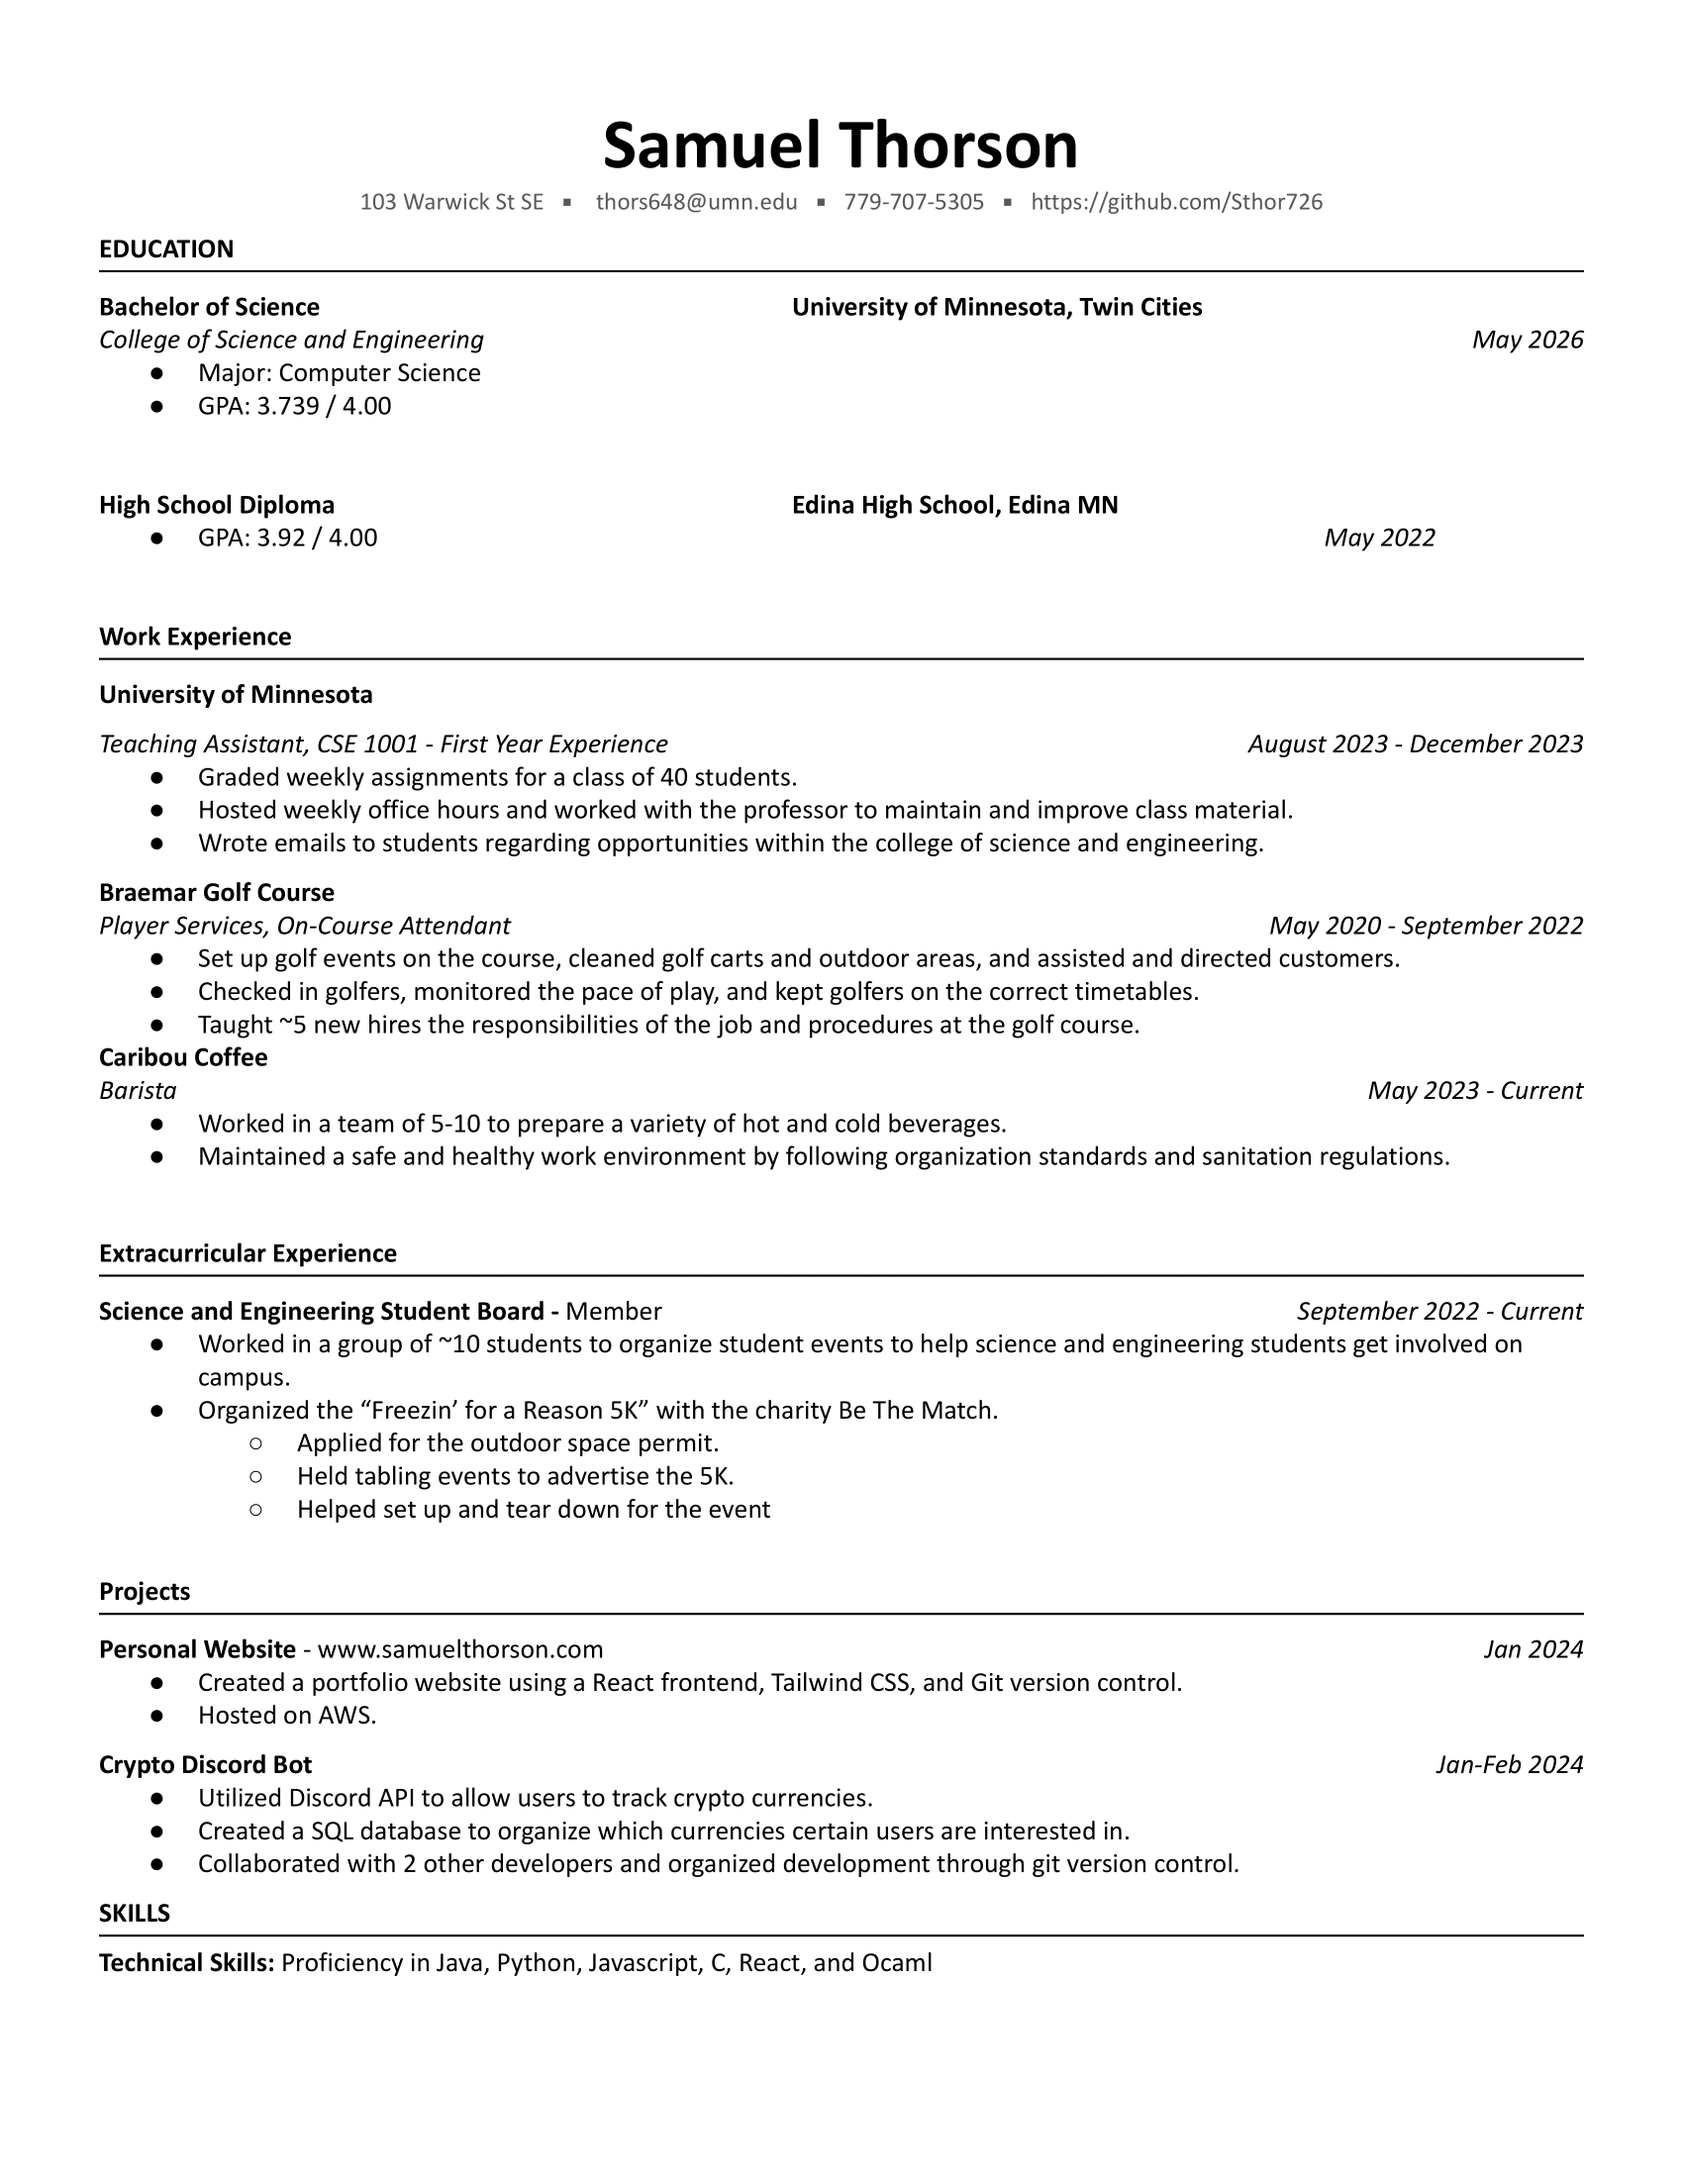
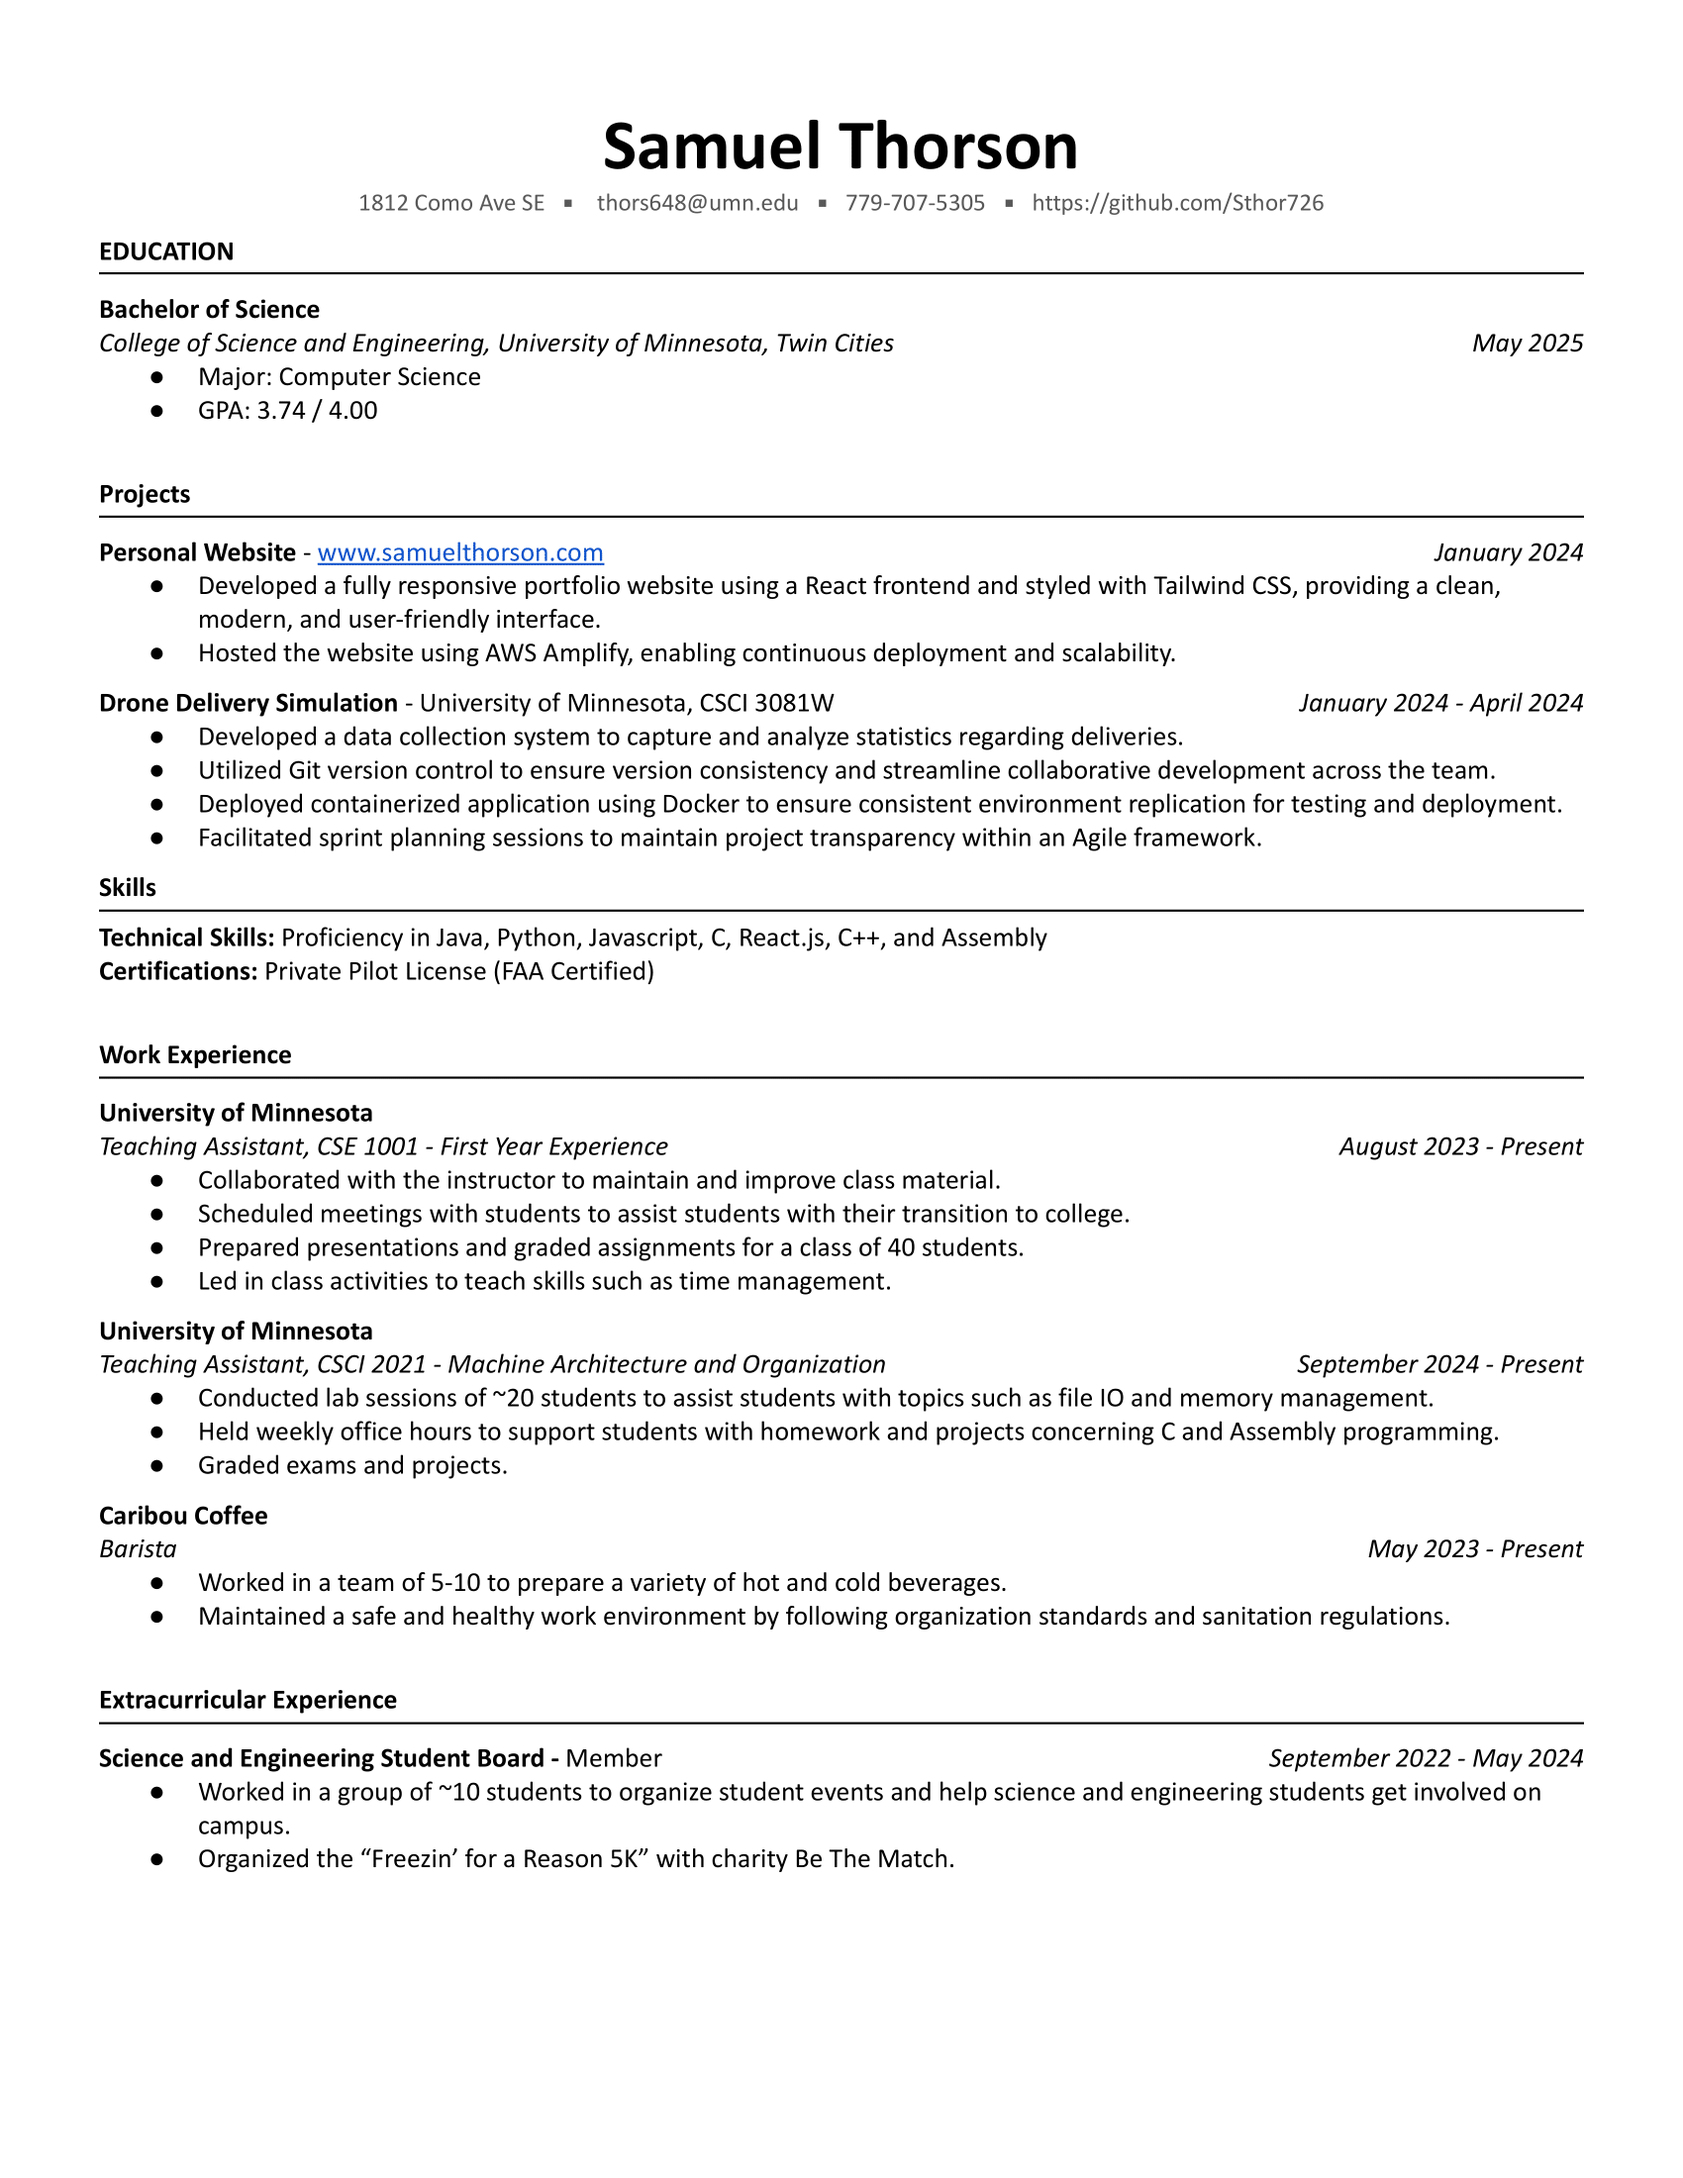
updated resume jan-6

diff --git a/react-app/src/components/Resume.js b/react-app/src/components/Resume.js
@@ -20,7 +20,7 @@ function Resume() {
             </span>
             <ul className="pl-8">
               <li className="text-base">Major: Computer Science</li>
-              <li className="text-base">GPA: 3.699 / 4.00</li>
+              <li className="text-base">GPA: 3.74 / 4.00</li>
             </ul>
           </li>
         </ul>
@@ -86,13 +86,16 @@ function Resume() {
             <span className="text-gray-700">August 2023 - Present</span>
             <ul className="pl-8">
               <li className="text-base">
-                Graded weekly assignments for a class of 40 students.
+                Scheduled meetings with students to assist students with their transition to college.
               </li>
               <li className="text-base">
                 Hosted weekly office hours and worked with the professor to maintain and improve class material.
               </li>
               <li className="text-base">
-                Wrote emails to students regarding opportunities within the college of science and engineering.
+                Led in class activities to teach skills such as time management.
+              </li>
+              <li className="text-base">
+                Prepared presentations and graded assignments for a class of 40 students.
               </li>
             </ul>
           </li>
@@ -103,13 +106,11 @@ function Resume() {
             <span className="text-gray-700">September 2024 - Present</span>
             <ul className="pl-8">
               <li className="text-base">
-                Conducted lab sessions of ~20 students.
-              </li>
+                Conducted lab sessions of ~20 students to assist students with topics such as file IO and memory management.              </li>
               <li className="text-base">
-                Held weekly office hours to support students with homework and projects.
-              </li>
+                Held weekly office hours to support students with homework and projects concerning C and Assembly programming.              </li>
               <li className="text-base">
-                Graded homework assignments and projects.
+                Graded exams and projects in collaboration with other TA's.
               </li>
             </ul>
           </li>
